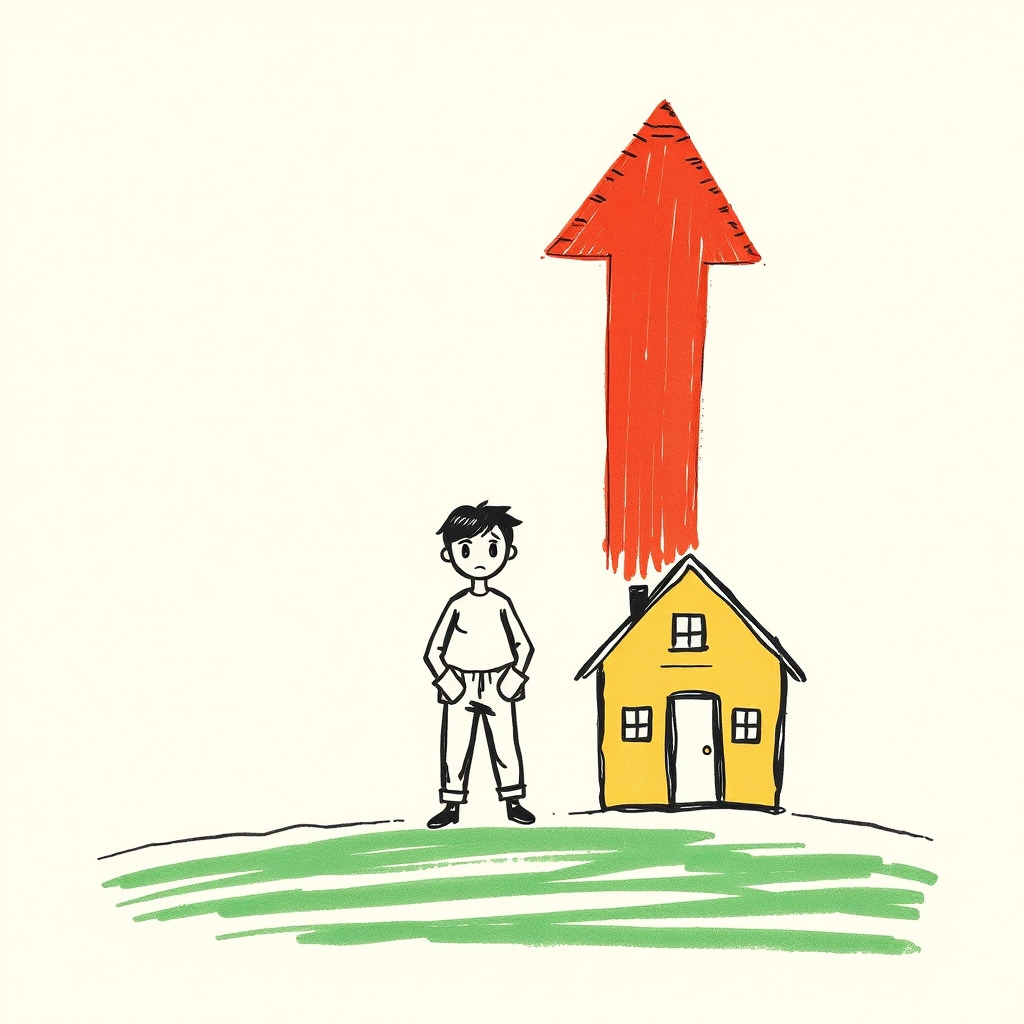
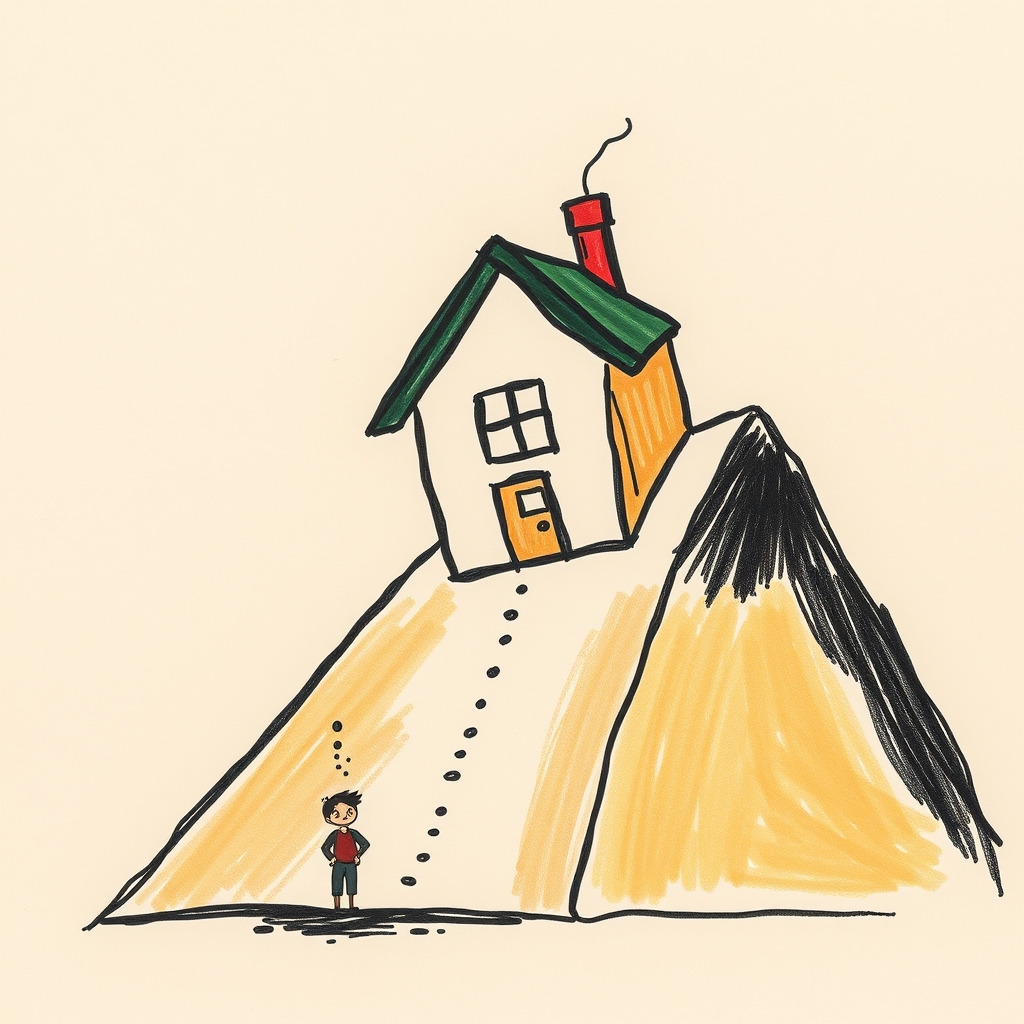
Fase 2 cerrada: 13 planos IA, fondo continuo y plano 09 corregido

diff --git a/README.md b/README.md
@@ -31,6 +31,7 @@ npm run still -- Demo out/frame.png --frame=90
 # Imágenes IA + puerta de calidad (OCR)
 npm run images:gen
 npm run images:qa
+npm run images:sheet      # hoja de contactos en out/sheet-<slug>.jpg
 ```
 
 ## Estructura
